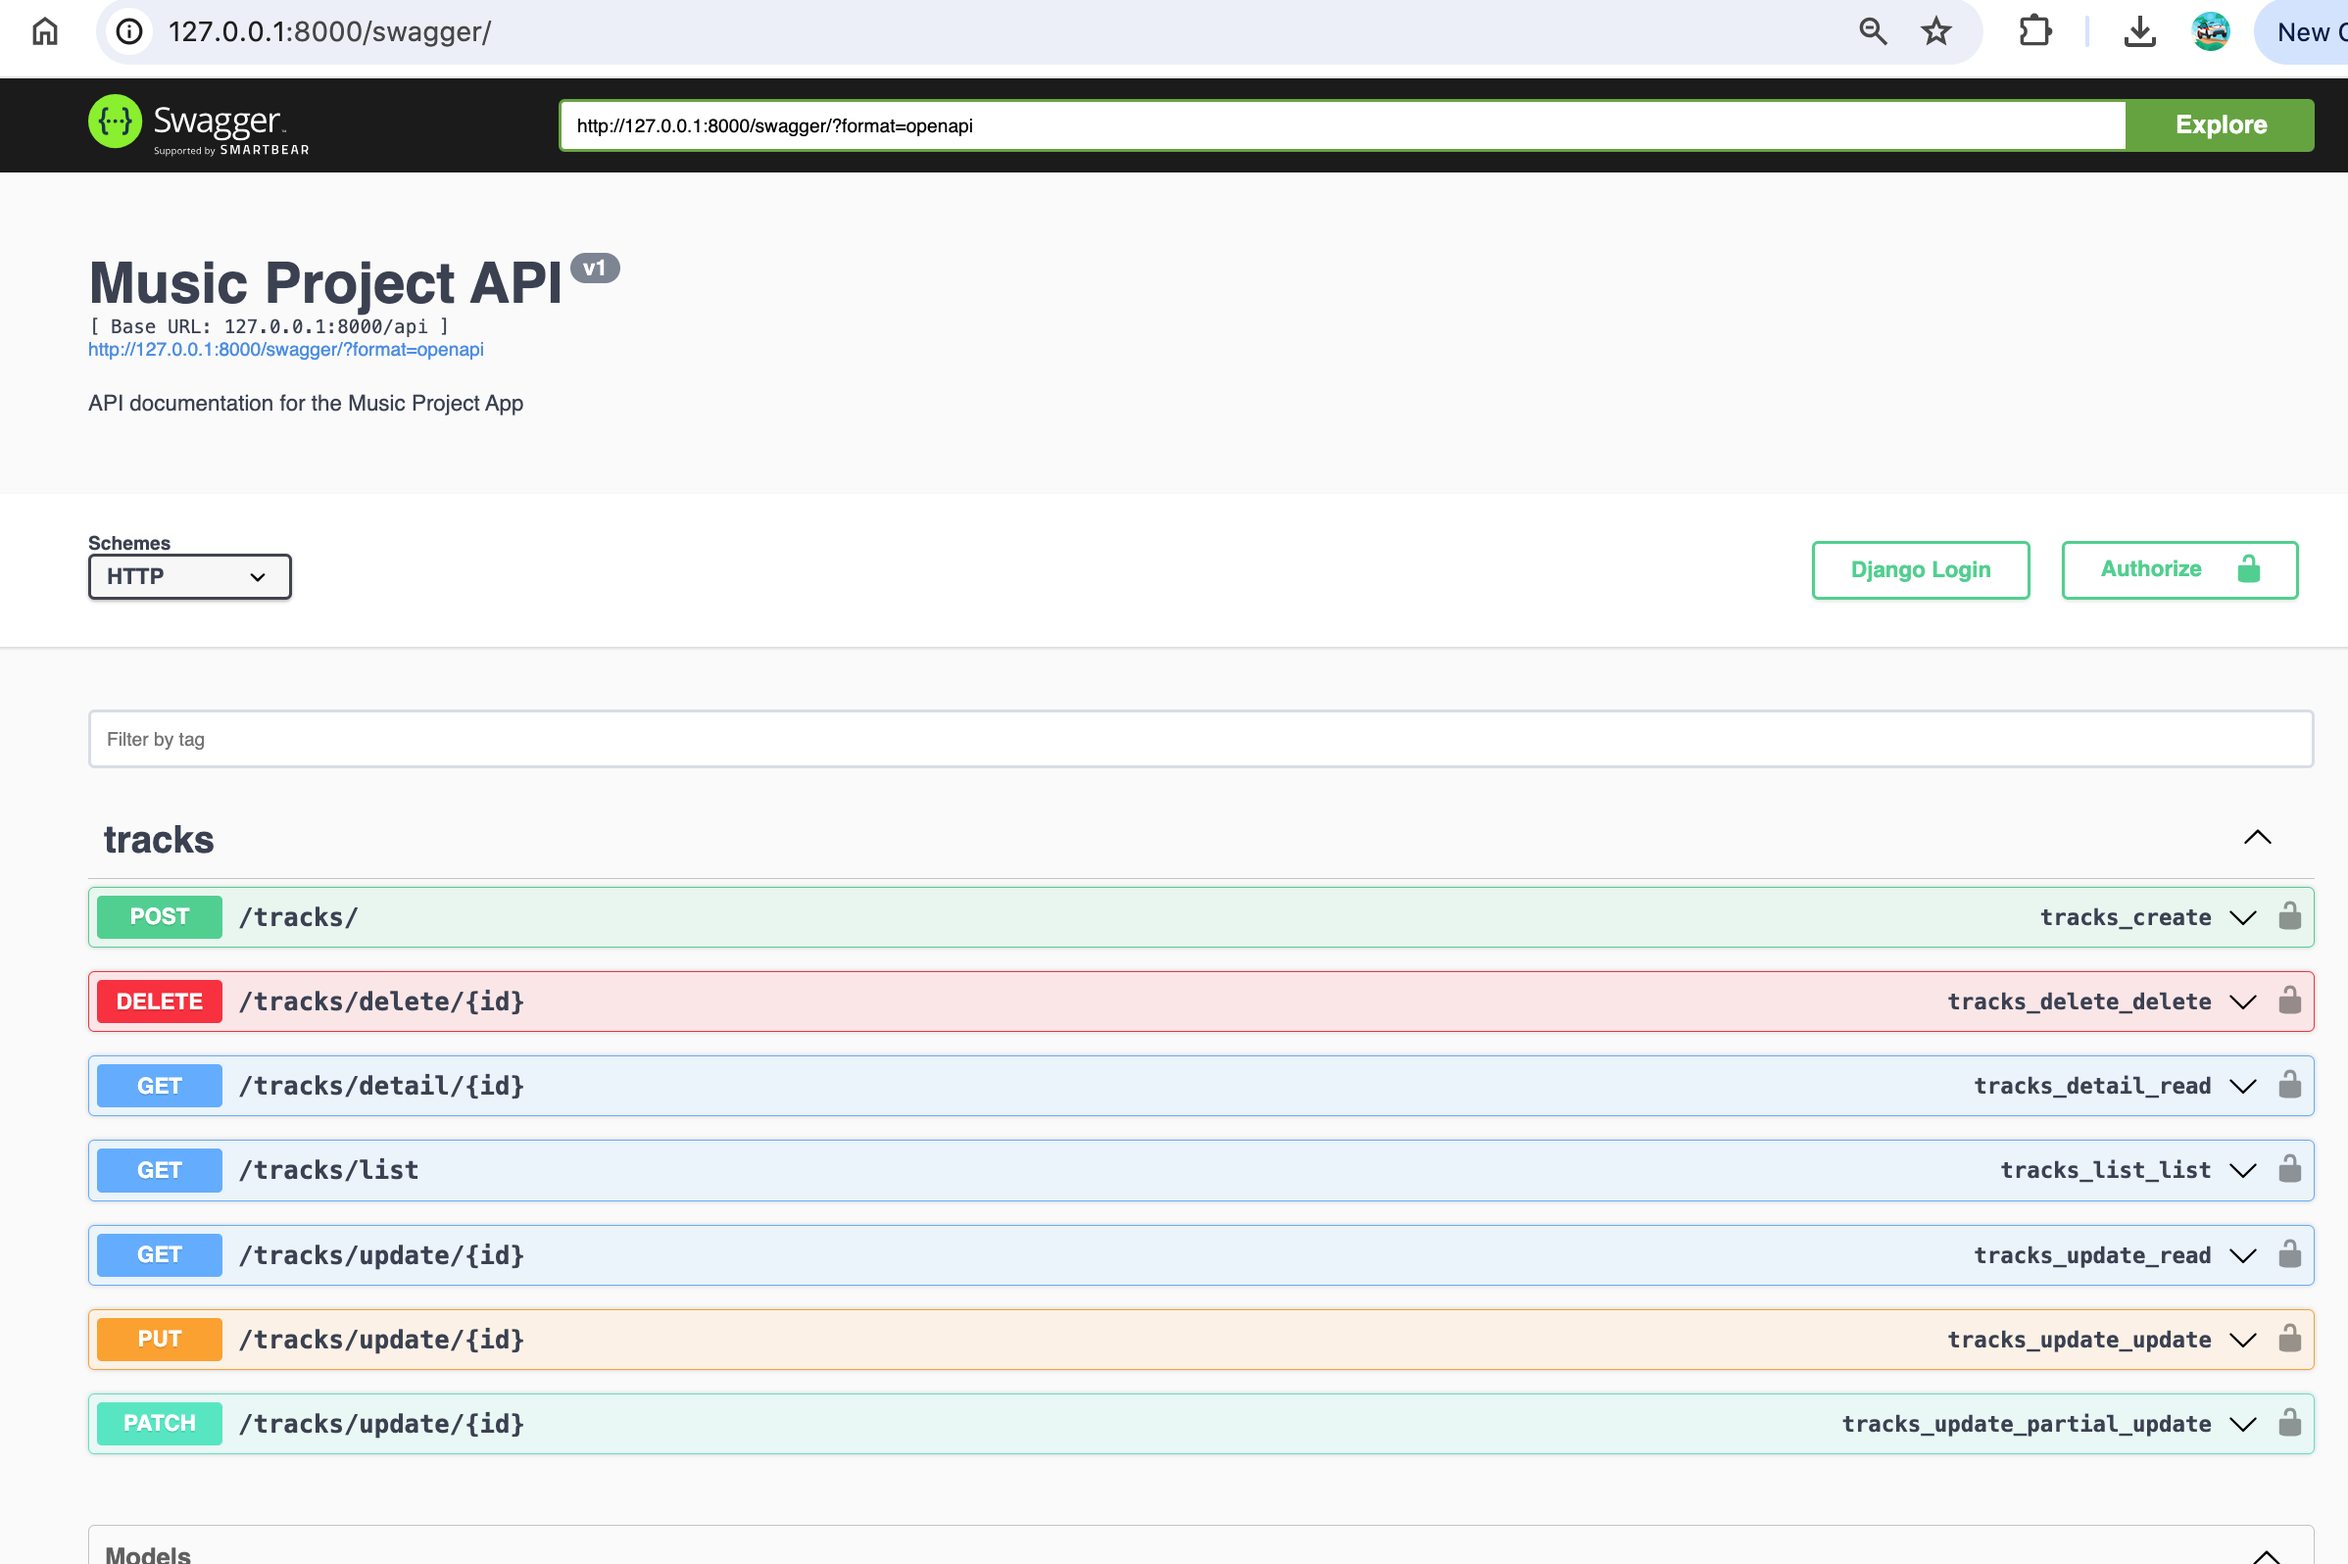
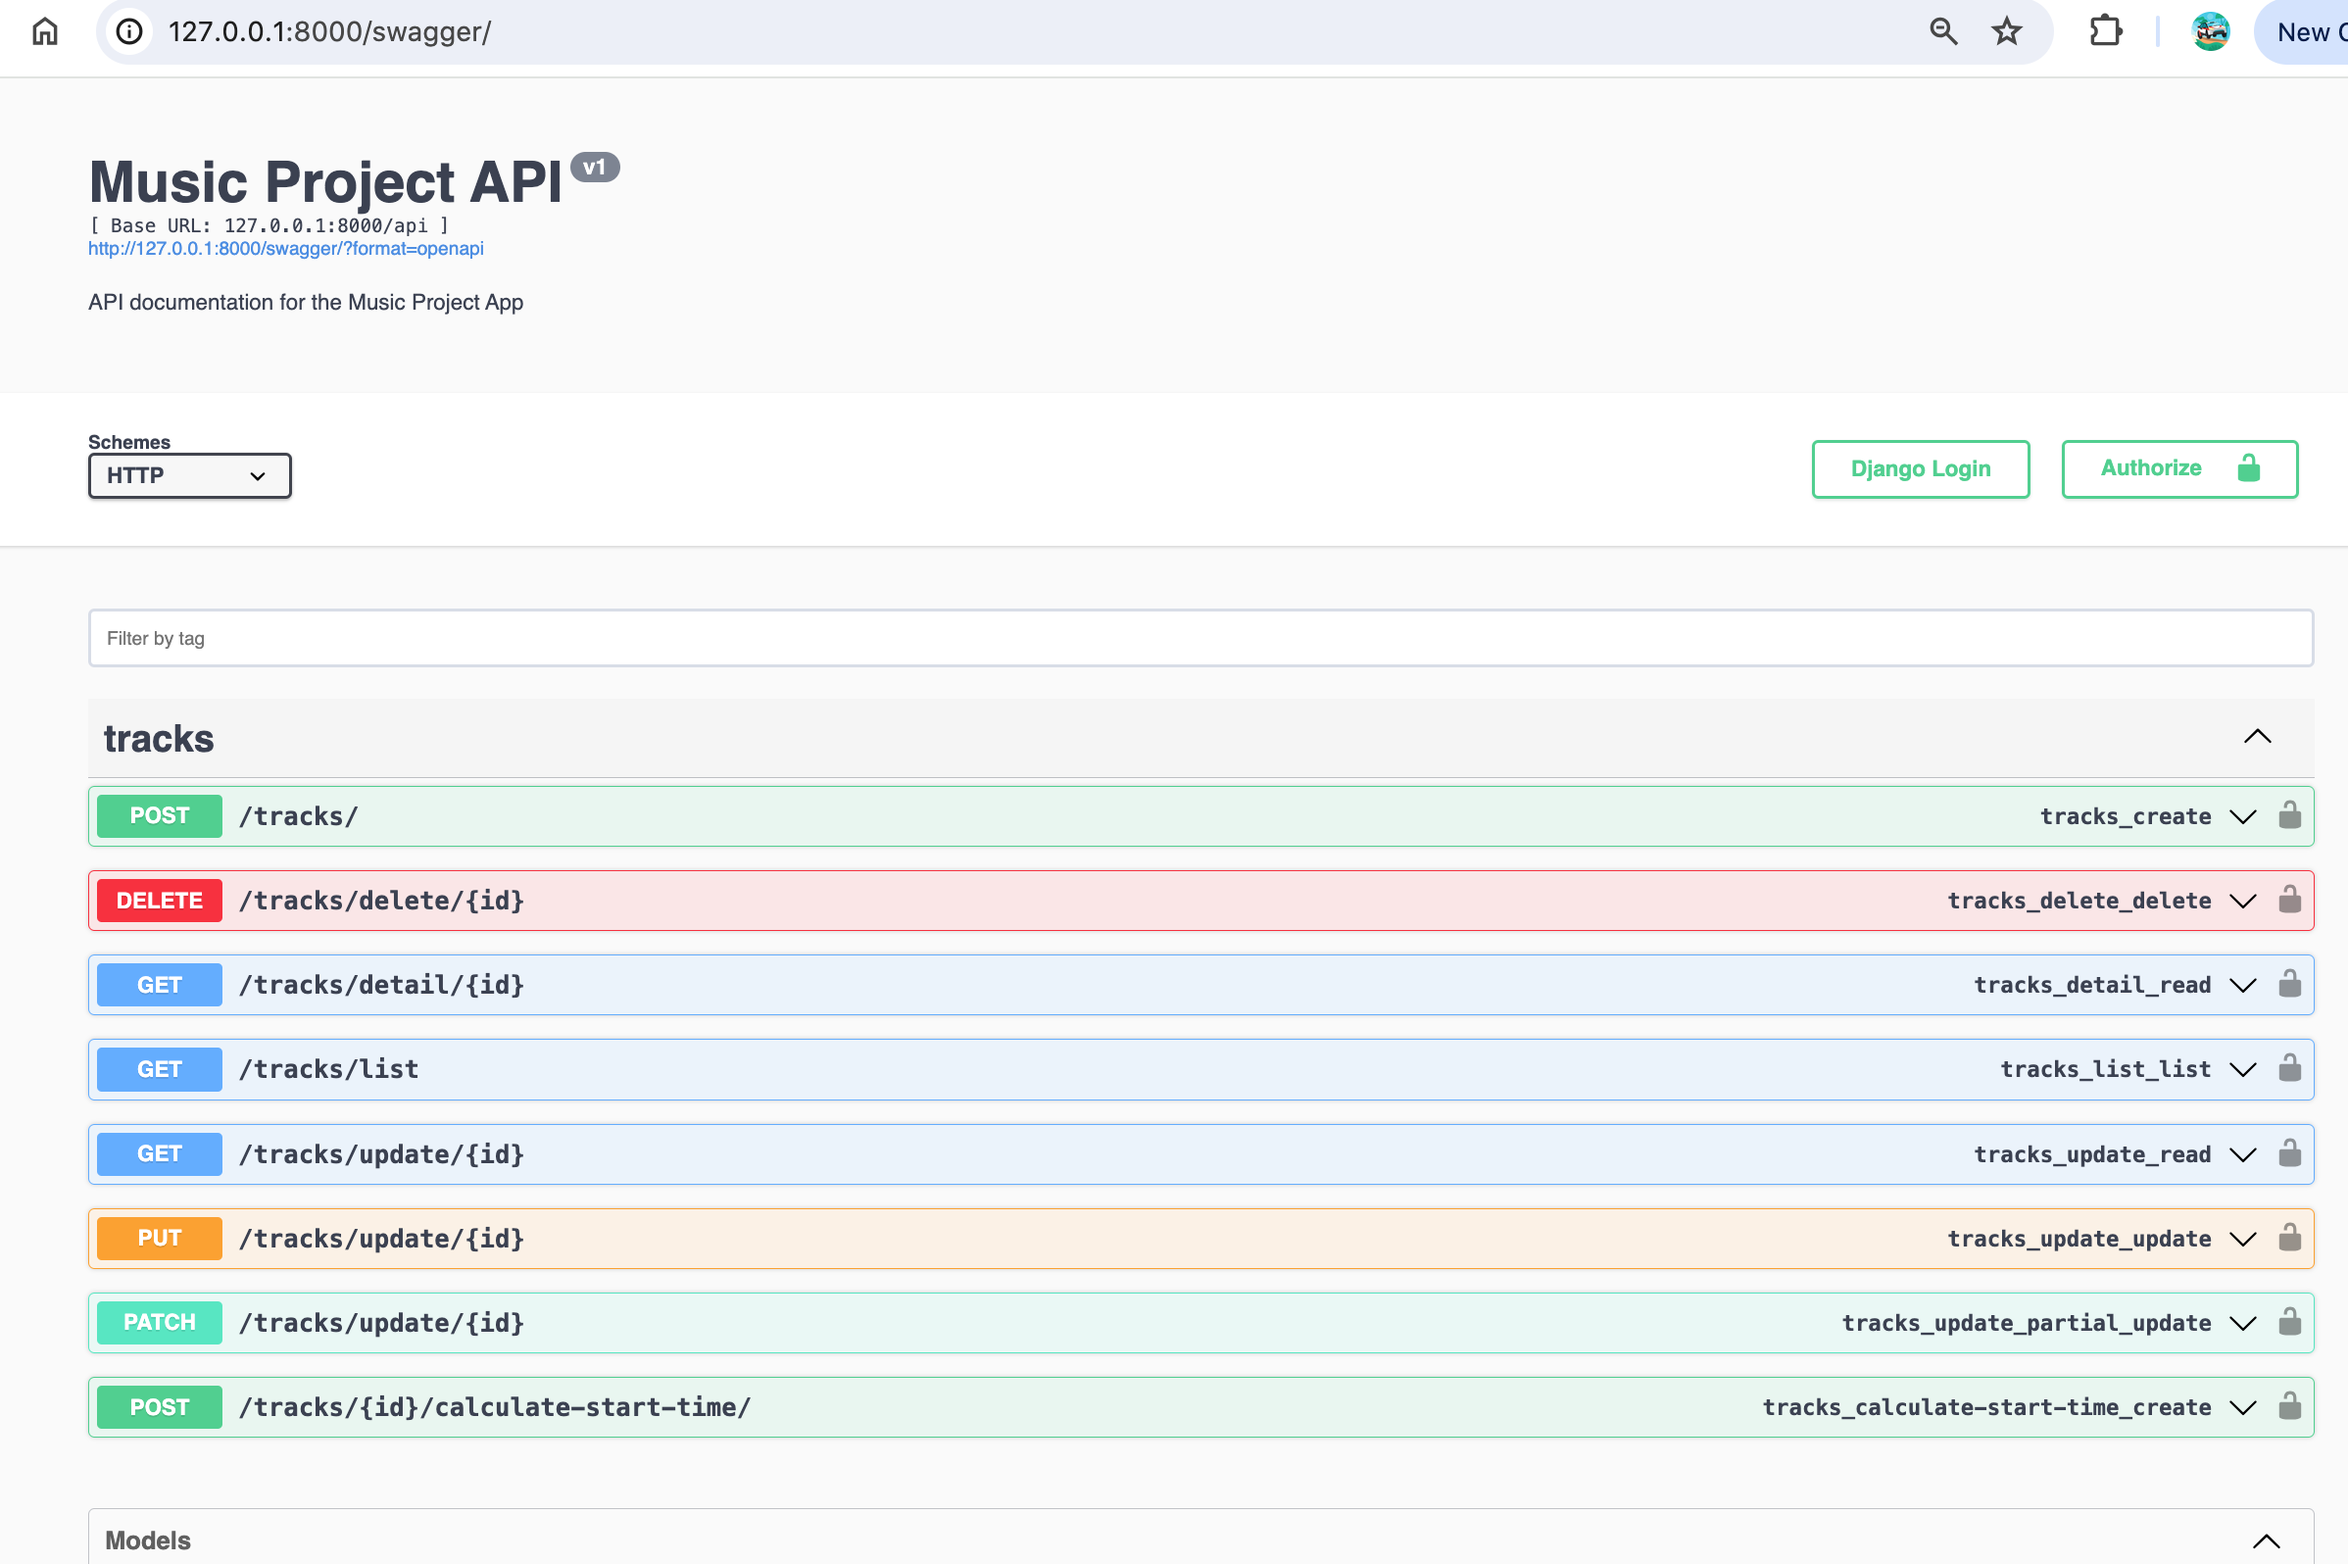
fix calculate

diff --git a/tracks/urls.py b/tracks/urls.py
@@ -2,7 +2,7 @@ from django.conf import settings
 from django.urls import path
 from django.conf.urls.static import static
 from rest_framework import permissions
-from .views import TrackUploadView,TrackListAPIView, TrackDetailAPIView, TrackDeleteAPIView, TrackUpdateAPIView
+from .views import TrackUploadView,TrackListAPIView, TrackDetailAPIView, TrackDeleteAPIView, TrackUpdateAPIView, CalculateStartTimeAPIView
 from drf_yasg.views import get_schema_view
 from drf_yasg import openapi
 
@@ -22,6 +22,7 @@ urlpatterns = [
     path('api/tracks/detail/<int:pk>', TrackDetailAPIView.as_view(), name='track-detail'),
     path('api/tracks/update/<int:pk>', TrackUpdateAPIView.as_view(), name='track-update'),
     path('api/tracks/delete/<int:pk>', TrackDeleteAPIView.as_view(), name='track-delete'),
+    path('api/tracks/<int:pk>/calculate-start-time', CalculateStartTimeAPIView.as_view(), name='calculate-start-time'),
     path('swagger/', schema_view.with_ui('swagger', cache_timeout=0), name='schema-swagger-ui'),
     path('docs/', schema_view.with_ui('redoc', cache_timeout=0), name='schema-redoc'),
 ]

diff --git a/tracks/views.py b/tracks/views.py
@@ -1,9 +1,10 @@
 import mimetypes
+from django.shortcuts import get_object_or_404
 from rest_framework.views import APIView
 from rest_framework.response import Response
 from rest_framework import status
 from rest_framework import generics
-
+import librosa
 from .models import Track
 from .serializers import TrackSerializer
 
@@ -56,4 +57,16 @@ class TrackDeleteAPIView(generics.DestroyAPIView):
         else:
             return Response({'error': 'File not found'}, status=status.HTTP_404_NOT_FOUND)
 
-       
+
+class CalculateStartTimeAPIView(generics.GenericAPIView):
+    queryset = Track.objects.all()
+    permission_classes = ()
+
+    def post(self, request, *args, **kwargs):
+        track = get_object_or_404(Track, pk=kwargs['pk'])
+        file_path = track.file.path
+        
+        y, sr = librosa.load(file_path, sr=None)
+        start_time = librosa.effects.split(y, top_db=20)[0][0] / sr
+        
+        return Response({"start_time": start_time}, status=status.HTTP_200_OK)

diff --git a/README.md b/README.md
@@ -1,15 +1,15 @@
 # music-project-test
 
 
-## Clone
+## Repo
 
 ```bash
 git clone : https://github.com/Adityapfm99/music_project
 ```
 
-## activate a virtual environment
+## Activate a virtual environment
 ```bash
-source venv/bin/activate
+source env/bin/activate
 ```
 
 ## Migrate 
@@ -40,22 +40,28 @@ source venv/bin/activate
 
     GET DETAIL
 
-    curl --location --request GET 'http://localhost:8000/api/tracks/detail/1' \
+    curl --location --request GET 'http://localhost:8000/api/tracks/detail/:tracksId' \
     --form 'file=@"/path/to/file"' \
     --form 'artist="Michael Jackson12"' \
     --form 'title="Moonwalk"'
 
     DELETE
 
-    curl --location --request DELETE 'http://localhost:8000/api/tracks/delete/4'
+    curl --location --request DELETE 'http://localhost:8000/api/tracks/delete/:tracksId'
 
     PUT
-    curl --location --request PUT 'http://localhost:8000/api/tracks/update/2' \
+    curl --location --request PUT 'http://localhost:8000/api/tracks/update/:tracksId' \
     --header 'Content-Type: application/json' \
     --data '{
         "artist": “bon  jovi”,
         "title": "test Title bon”
     }'
+
+    POST
+    curl --location 'http://localhost:8000/api/tracks/:tracksId/calculate-start-time' \
+    --form 'file=@"/path/to/file"' \
+    --form 'artist="Michael Jackson12"' \
+    --form 'title="Moonwalk"'
 ```
 
 
